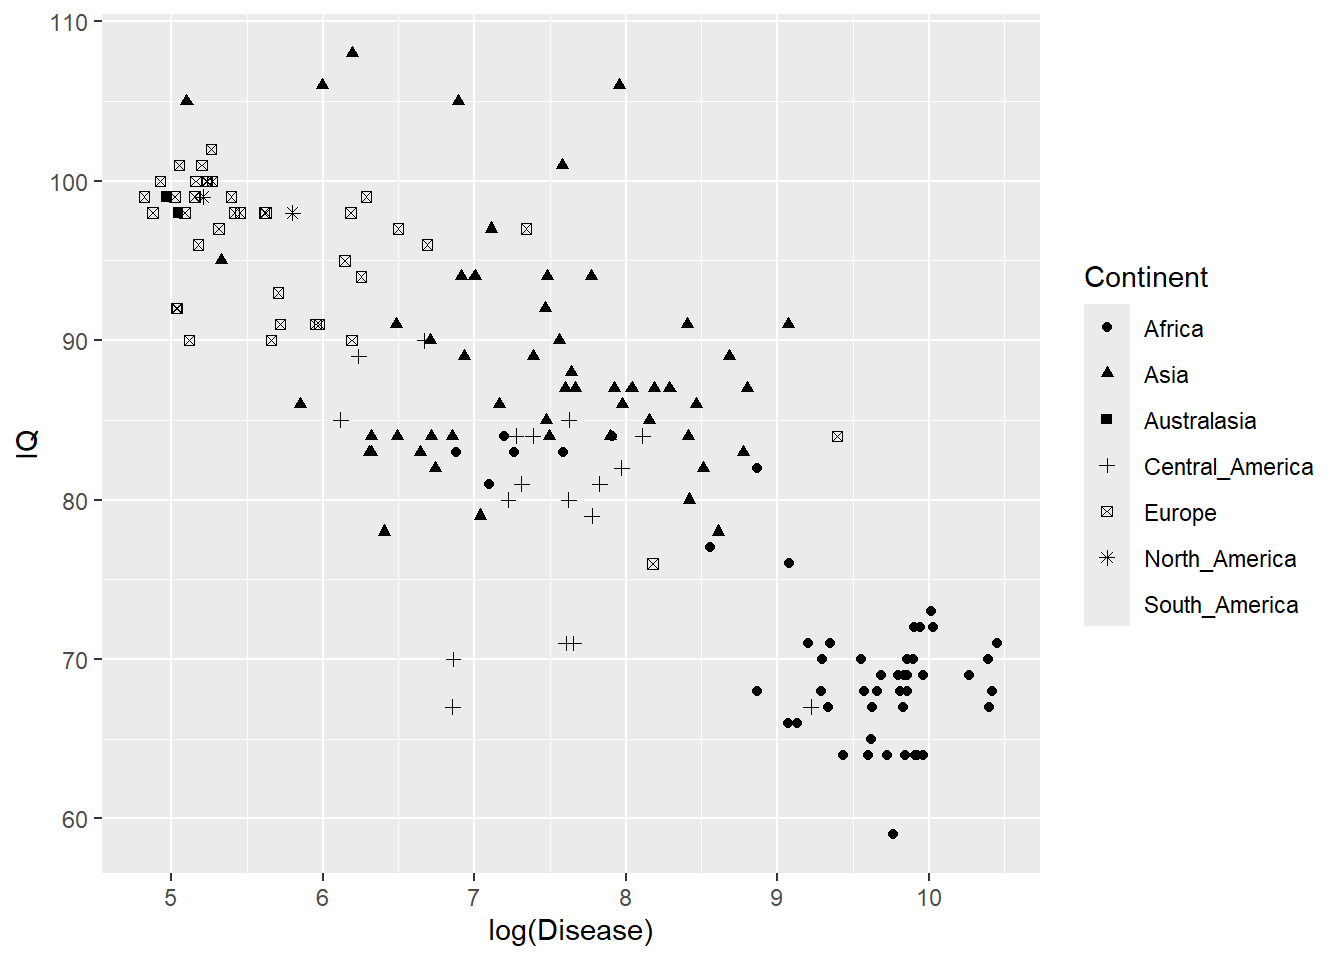
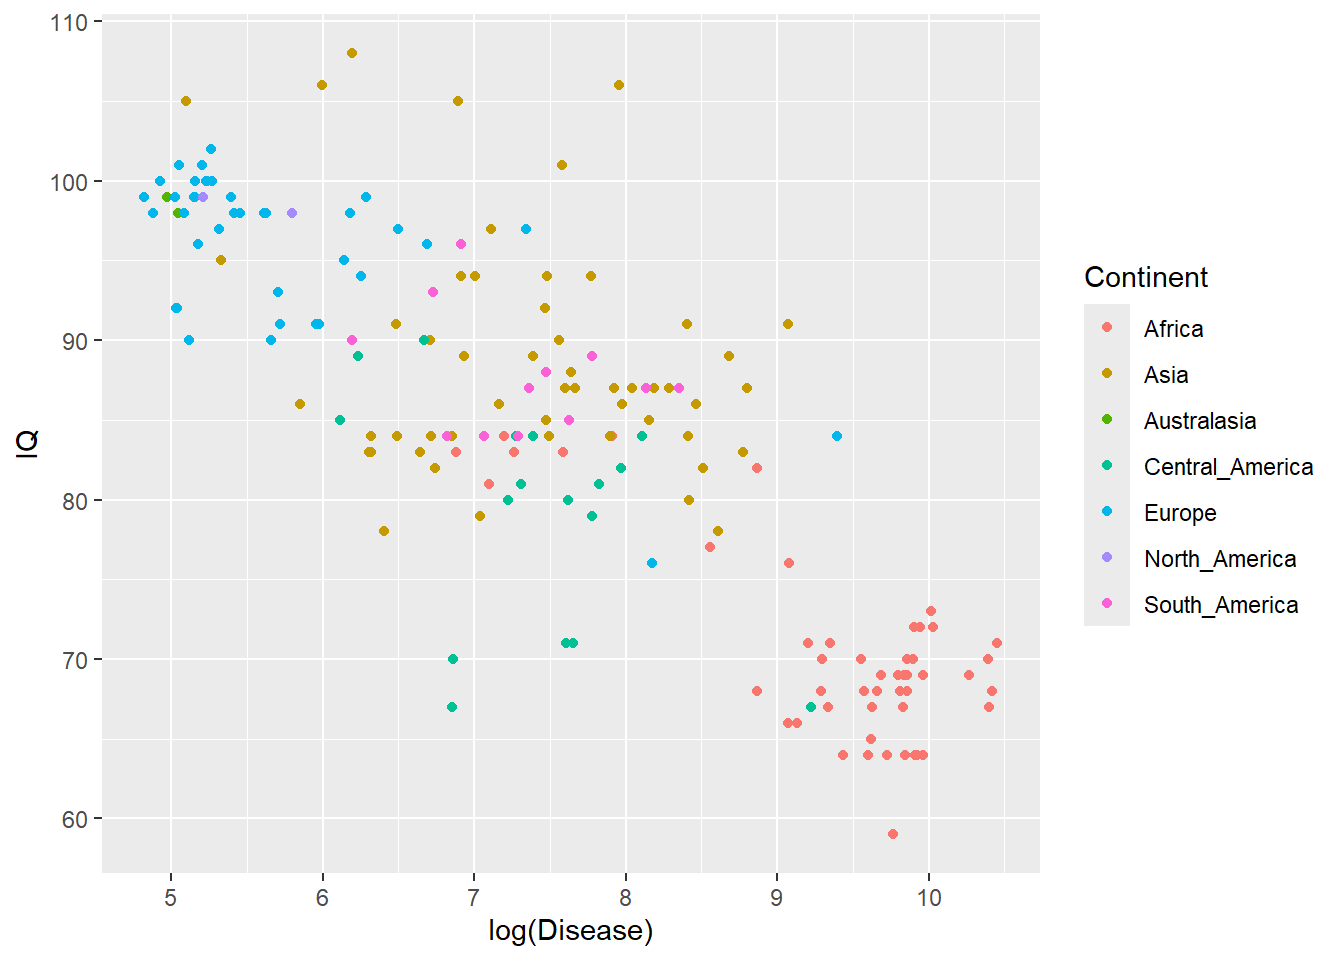
change shape to color in graph

diff --git a/docs/spatial.html b/docs/spatial.html
@@ -508,7 +508,7 @@ Moran I statistic       Expectation          Variance
 <p>Another way to visualise why there is a autocorrelation problem, is to plot IQ and disease according to the continent of the country (similar to Figure 1 from <a href="https://reader.elsevier.com/reader/sd/pii/S0160289611000572?token=7B8DFAD8896C1FBA0AA9B2EF7ACA41509969C6894A95E31DF179E376D3DAEEFADD3E503B5D1366C185330CEDBC41FFB3&amp;originRegion=eu-west-1&amp;originCreation=20220902125737">Hassall and Sherratt, 2011</a>):</p>
 <div class="cell">
 <div class="sourceCode cell-code" id="cb23"><pre class="sourceCode r code-with-copy"><code class="sourceCode r"><span id="cb23-1"><a href="#cb23-1" aria-hidden="true" tabindex="-1"></a><span class="fu">ggplot</span>(IQData, <span class="fu">aes</span>(<span class="at">x=</span><span class="fu">log</span>(Disease), <span class="at">y=</span>IQ, <span class="at">group =</span> Continent)) <span class="sc">+</span> </span>
-<span id="cb23-2"><a href="#cb23-2" aria-hidden="true" tabindex="-1"></a><span class="fu">geom_point</span>(<span class="fu">aes</span>(<span class="at">shape=</span>Continent))</span></code><button title="Copy to Clipboard" class="code-copy-button"><i class="bi"></i></button></pre></div>
+<span id="cb23-2"><a href="#cb23-2" aria-hidden="true" tabindex="-1"></a><span class="fu">geom_point</span>(<span class="fu">aes</span>(<span class="at">color=</span>Continent))</span></code><button title="Copy to Clipboard" class="code-copy-button"><i class="bi"></i></button></pre></div>
 <div class="cell-output-display">
 <p><img src="spatial_files/figure-html/unnamed-chunk-16-1.png" class="img-fluid" width="672"></p>
 </div>
